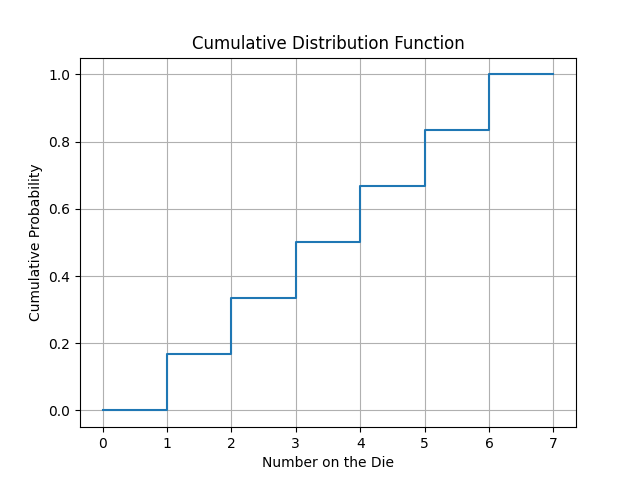
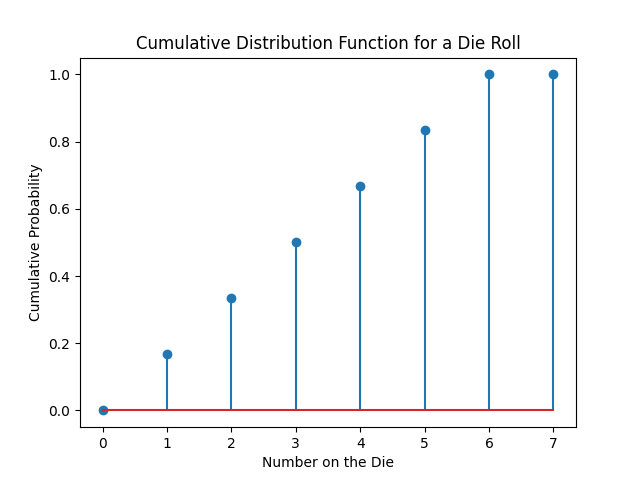
CDF fn, plot

diff --git a/11.16.3.3/codes/1.py b/11.16.3.3/codes/1.py
@@ -2,18 +2,17 @@ import numpy as np
 import matplotlib.pyplot as plt
 
 # Define the sample space of the die roll
-sample_space = [0,1, 2, 3, 4, 5, 6,7]
+sample_space = [0, 1, 2, 3, 4, 5, 6, 7]
 
 # Define the probability distribution of the die roll
-prob_dist = [0,0,1/6, 1/6, 1/6, 1/6, 1/6, 1/6]
+prob_dist = [0, 1/6, 1/6, 1/6, 1/6, 1/6, 1/6, 0]
 
 # Calculate the cumulative probabilities for the die roll
 cumulative_prob = np.cumsum(prob_dist)
 
-# Plot the CDF
-plt.step(sample_space, cumulative_prob)
-plt.title("Cumulative Distribution Function")
+# Plot the CDF using a stem plot
+plt.stem(cumulative_prob)
+plt.title("Cumulative Distribution Function for a Die Roll")
 plt.xlabel("Number on the Die")
-plt.grid('on')
 plt.ylabel("Cumulative Probability")
 plt.savefig("../figs/fig.png")

diff --git a/11.16.3.3/EE20BTECH11025.tex b/11.16.3.3/EE20BTECH11025.tex
@@ -164,15 +164,18 @@ columns=fullflexible
 
 The CDF of the random variable $X$ is given by,
 \begin{align}
+F_{X}\brak{n} = 	\pr{X \le n} \label{eq:2}
+\end{align}
+From the equation \eqref{eq:2} we get,
+\begin{align}
 F_{X}\brak{n} = 
 \begin{cases}
 0 & n < 1 \\
-\frac{[n]}{6} & 1 \le n \leq 6 \\
+\frac{n}{6} & 1 \le n \leq 6 \\
 1 & \text{otherwise}
 \end{cases}
 \end{align}
-where [.] denotes Greatest Integer function. The graph of the CDF function is shown in the figure 
-%\begin{align}
+The graph of the CDF function is shown in the figure \ref{fig:1}
 %F_{X}\brak{n} = 
 %\begin{cases}
 %0 & n < 1 \\
